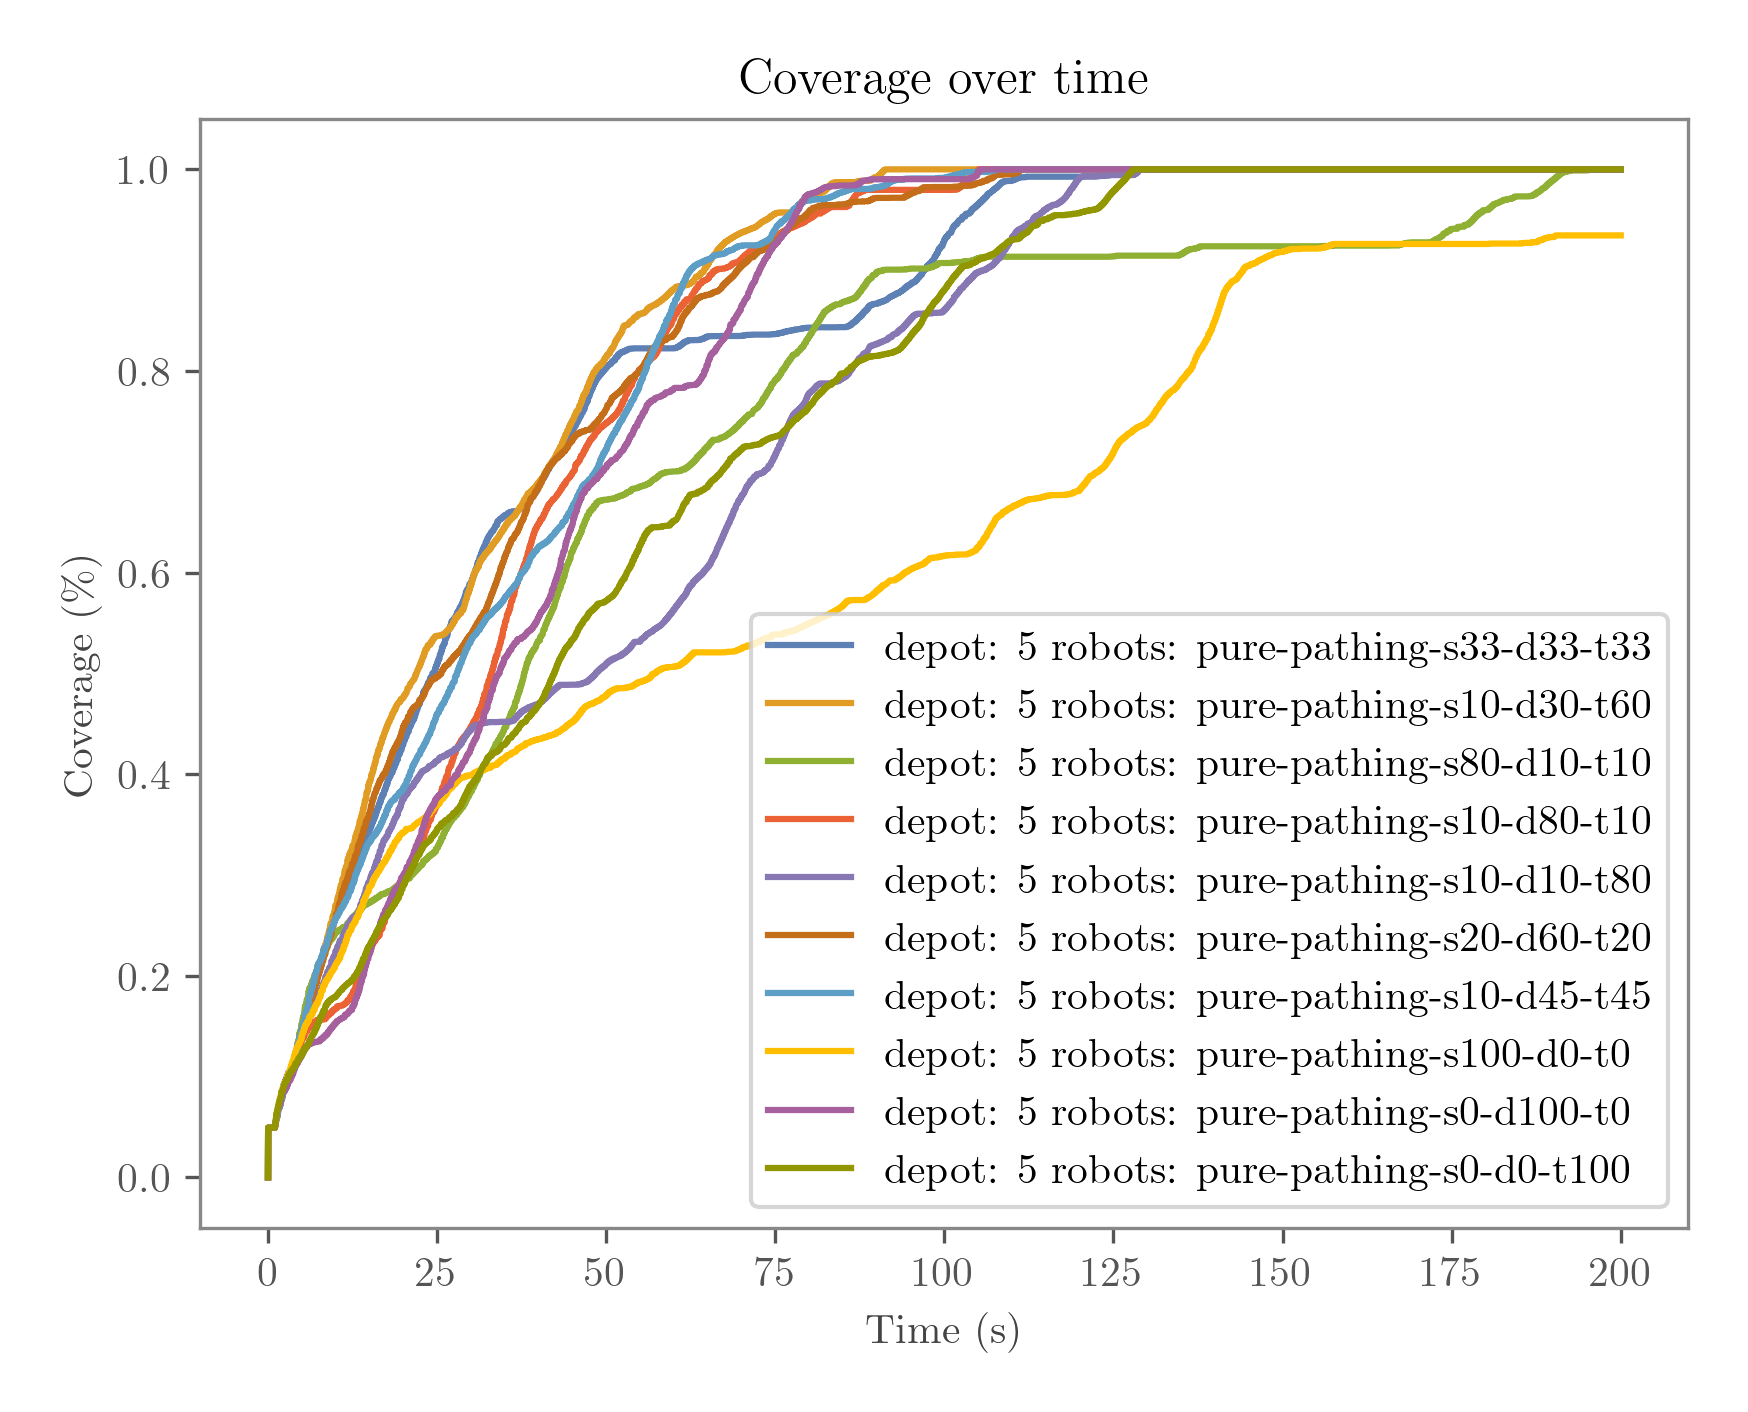
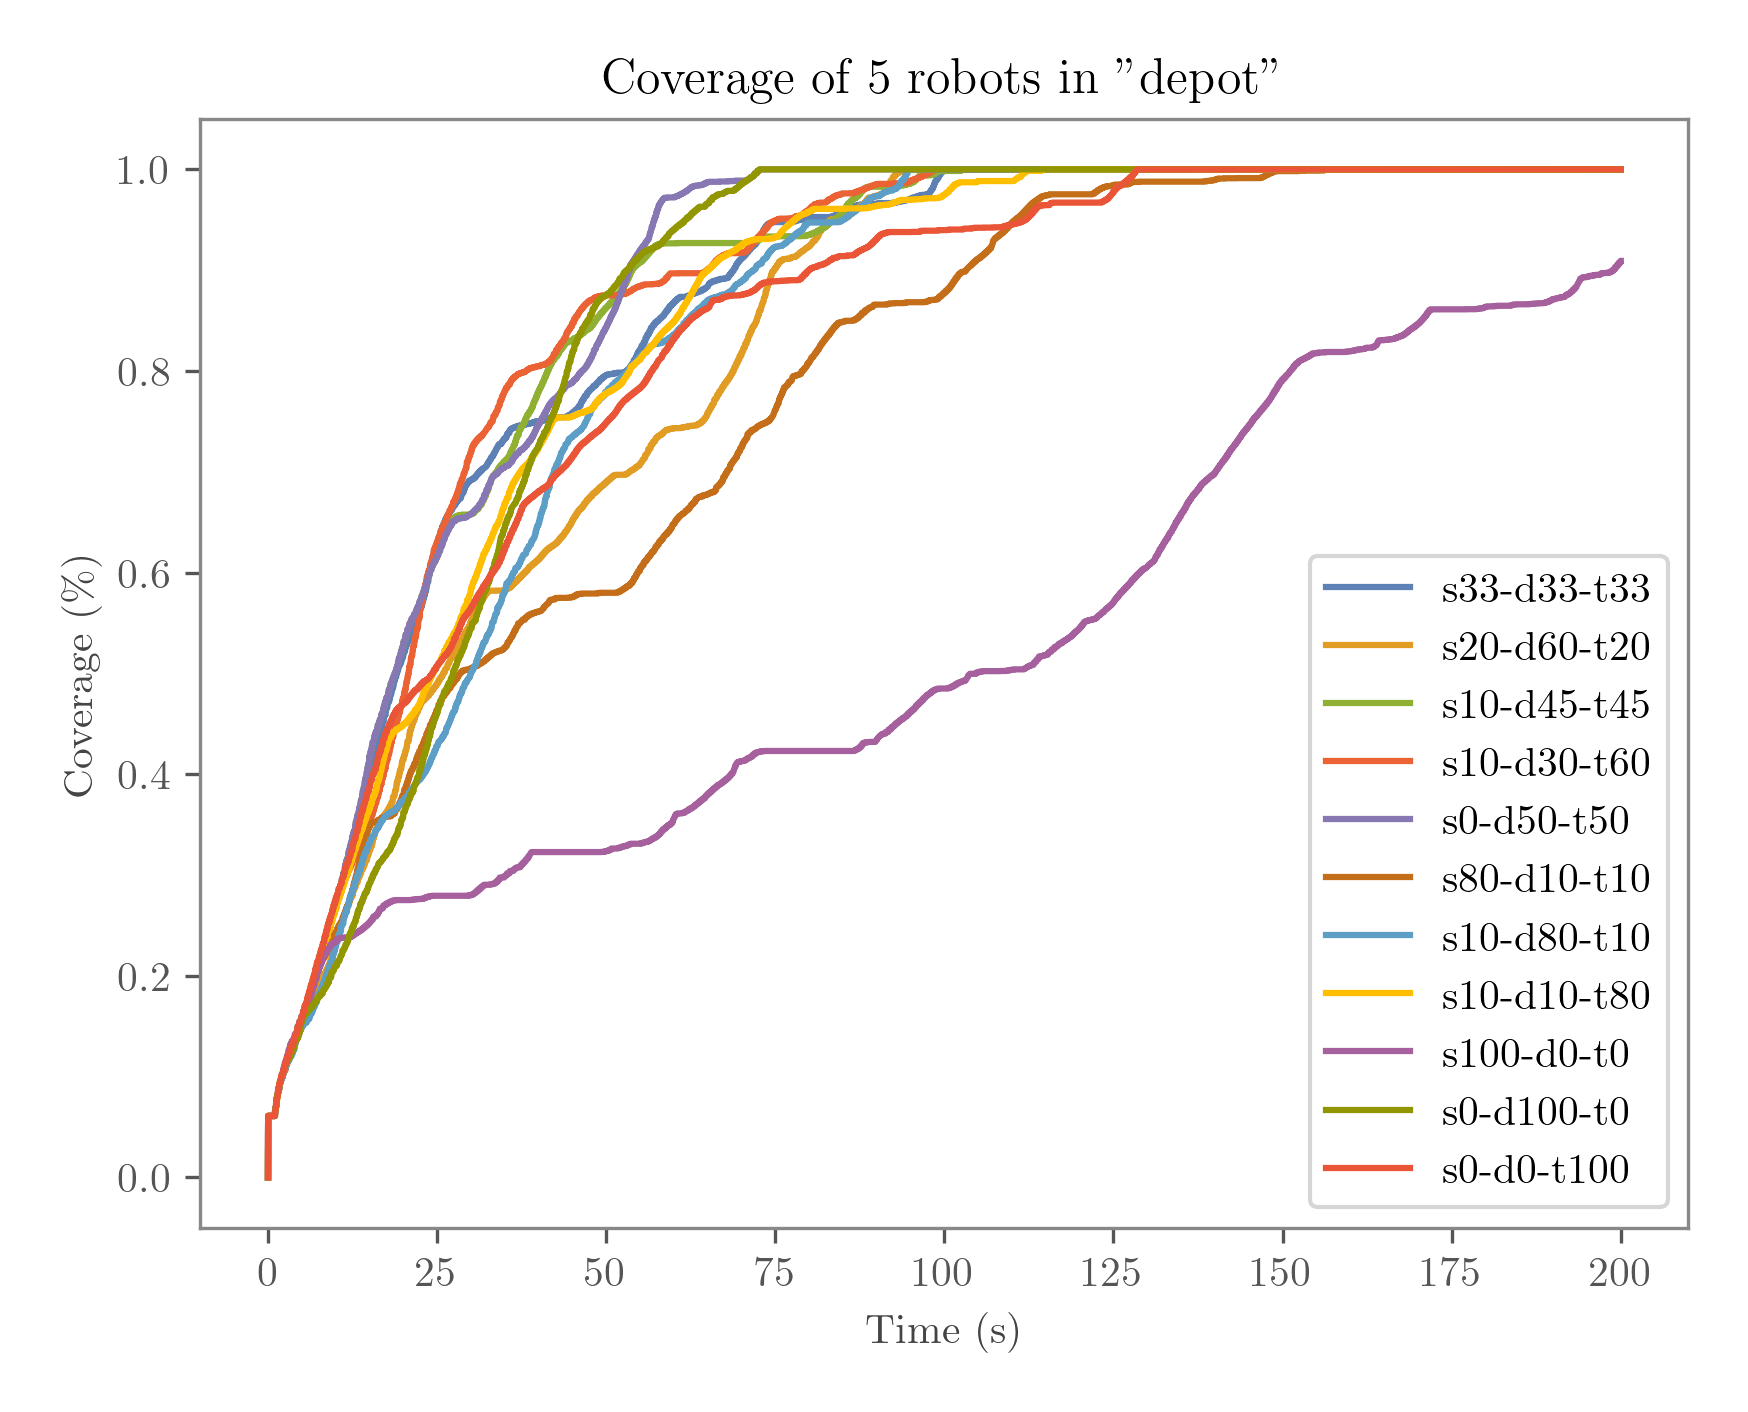
report: Change graphs + tweeks

diff --git a/report/sections/simple_sim.tex b/report/sections/simple_sim.tex
@@ -43,7 +43,8 @@ The camera simulation follows a similar ray-marching procedure but is constraine
 \end{figure}
 
 \subsection{Debugging}
-To facilitate development and validation, the simple simulator supports real-time debugging of both robot behavior and internal state. The \texttt{botbrain} library exposes a debugging interface known as \texttt{Debug Soup}, which allows behavior modules to annotate the simulation with structured debugging data. These debug items—such as occupancy grids, path vectors, target points, and internal decision states—can be visualized in both \texttt{simple\_sim} and ROS 2 via RViz2. This significantly accelerates the development process and helps in interpreting the emergent behavior of the swarm.
+To facilitate development and validation, the simple simulator supports real-time debugging of both robot behavior and internal state. The \texttt{botbrain} library exposes a debugging interface known as \texttt{Debug Soup}, which allows behavior modules to annotate the simulation with structured debugging data. These debug items—such as occupancy grids, path vectors, target points, and internal decision states—can be visualized in both \texttt{simple\_sim} and ROS 2 via RViz2. The debug item in \texttt{simple\_sim} can be seen on the right side in \cref{fig:simple-sim-interface}.
+This significantly accelerates the development process and helps in interpreting the emergent behavior of the swarm.
 
 \subsection{Library}
 The simulator architecture is built around the shared \texttt{botbrain} behavior library, which encapsulates each robot’s internal state and provides a standardized interface for behavior control. This modular design allows the same behavior code to be executed seamlessly in both the lightweight \texttt{simple\_sim} environment and the more realistic Gazebo/ROS~2 simulation without requiring any code changes.

diff --git a/report/sections/search-algorithms.tex b/report/sections/search-algorithms.tex
@@ -243,9 +243,9 @@ Frontiers must also meet a minimum obstacle clearance threshold to be considered
     \label{fig:frontier-eval-params}
 \end{figure}
 
-These evaluations were tested in two distinct environments. Line labels in \cref{fig:frontier-eval-params} denote parameter weights: \texttt{sXX} (frontier size), \texttt{dXX} (distance), and \texttt{tXX} (turn angle). All tested configurations resulted in full coverage; thus, performance is measured in terms of coverage speed.
+These evaluations were conducted in two distinct environments. Line labels in \cref{fig:frontier-eval-params} indicate the parameter weightings used: \texttt{sXX} for frontier size, \texttt{dXX} for distance to the frontier, and \texttt{tXX} for the required turn angle. All tested configurations successfully achieved full map coverage; therefore, performance is evaluated based on coverage speed.
 
-Weighting distance and turn angle yielded the fastest coverage, as minimizing rotation promotes higher forward velocity. In contrast, high weight on frontier size alone often led to inefficient long-distance travel and frequent turning.
+As shown in \cref{fig:frontier-eval-params}, configurations that prioritized distance and turn angle produced the fastest coverage. This outcome suggests that minimizing rotation allows for higher sustained forward velocity. In contrast, configurations that emphasized frontier size alone often resulted in inefficient behavior, such as long detours and frequent turning, which slowed down overall progress.
 
 \subsubsection{Path Planning}
 \label{sec:path_planning}

diff --git a/plotting/frontier_eval_params.py b/plotting/frontier_eval_params.py
@@ -4,23 +4,22 @@ import os
 
 
 def main():
-
     behaviors = [
-        "pure-pathing-s33-d33-t33",
-        "pure-pathing-s10-d30-t60",
-        "pure-pathing-s80-d10-t10",
-        "pure-pathing-s10-d80-t10",
-        "pure-pathing-s10-d10-t80",
-        "pure-pathing-s20-d60-t20",
-        "pure-pathing-s10-d45-t45",
-        "pure-pathing-s0-d50-t50",
-        "pure-pathing-s100-d0-t0",
-        "pure-pathing-s0-d100-t0",
-        "pure-pathing-s0-d0-t100",
+        "pathing-s33-d33-t33",
+        "pathing-s20-d60-t20",
+        "pathing-s10-d45-t45",
+        "pathing-s10-d30-t60",
+        "pathing-s0-d50-t50",
+        "pathing-s80-d10-t10",
+        "pathing-s10-d80-t10",
+        "pathing-s10-d10-t80",
+        "pathing-s100-d0-t0",
+        "pathing-s0-d100-t0",
+        "pathing-s0-d0-t100",
     ]
     worlds = [
-        "simple_sim/worlds/bitmap/depot/depot.yaml",
-        # "simple_sim/worlds/objectmap/medium_obstacles.ron",
+        "worlds/bitmap/depot/depot.yaml",
+        "worlds/objectmap/medium_obstacles.ron",
     ]
 
     n = 5
@@ -32,7 +31,7 @@ def main():
         for behavior in behaviors:
             random.seed(seed)
             scenario = bp.Scenario(
-                title=f"{behavior[len('pure-pathing-'):]}",
+                title=f"{behavior[len('pathing-') :]}",
                 world=world,
                 behavior="search:" + behavior,
                 duration=200,

diff --git a/report/sections/gazebo_sim.tex b/report/sections/gazebo_sim.tex
@@ -19,7 +19,7 @@ The Turtlebot 4 is modeled using a URDF (Unified Robot Description Format) file 
 \label{sub:localization} 
 To enable functional behavior, robots require an estimate of their position within the environment. This project assumes access to a pre-existing map for localization.
 
-Localization is handled by the AMCL (Adaptive Monte Carlo Localization) algorithm from the ROS 2 \texttt{nav2} stack \cite{nav2, amcl}. AMCL uses LiDAR and odometry data to estimate the robot’s pose through a particle filter, yielding a position and orientation with an associated uncertainty.\\
+Localization is handled by the AMCL (Adaptive Monte Carlo Localization) algorithm \cite{amcl} from the ROS 2 \texttt{nav2} stack \cite{nav2}. AMCL uses LiDAR and odometry data to estimate the robot’s pose through a particle filter, yielding a position and orientation with an associated uncertainty.\\
 
 For environments without an available map, Simultaneous Localization and Mapping (SLAM) is employed to build the map while localizing the robot in real time. The \texttt{nav2} SLAM package is used for this purpose, particularly during map generation phases in 3D simulations.
 
